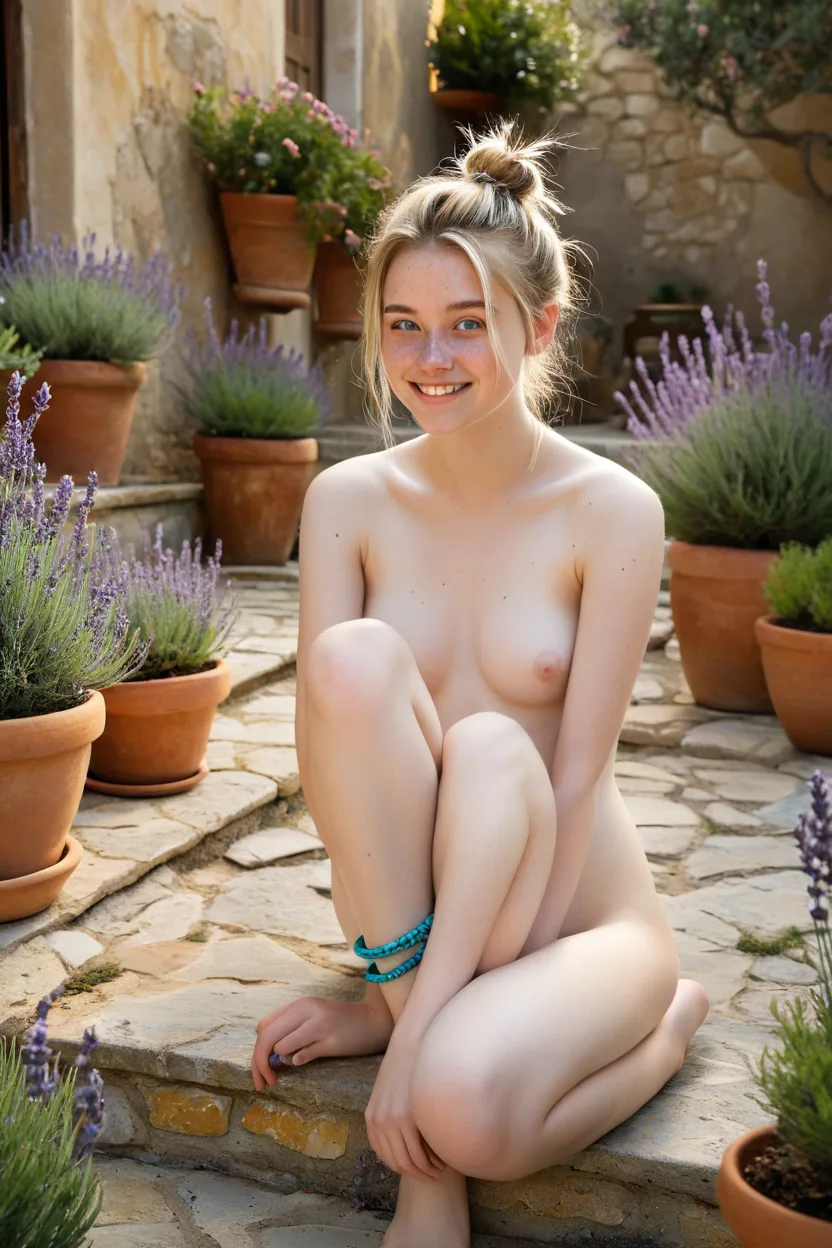
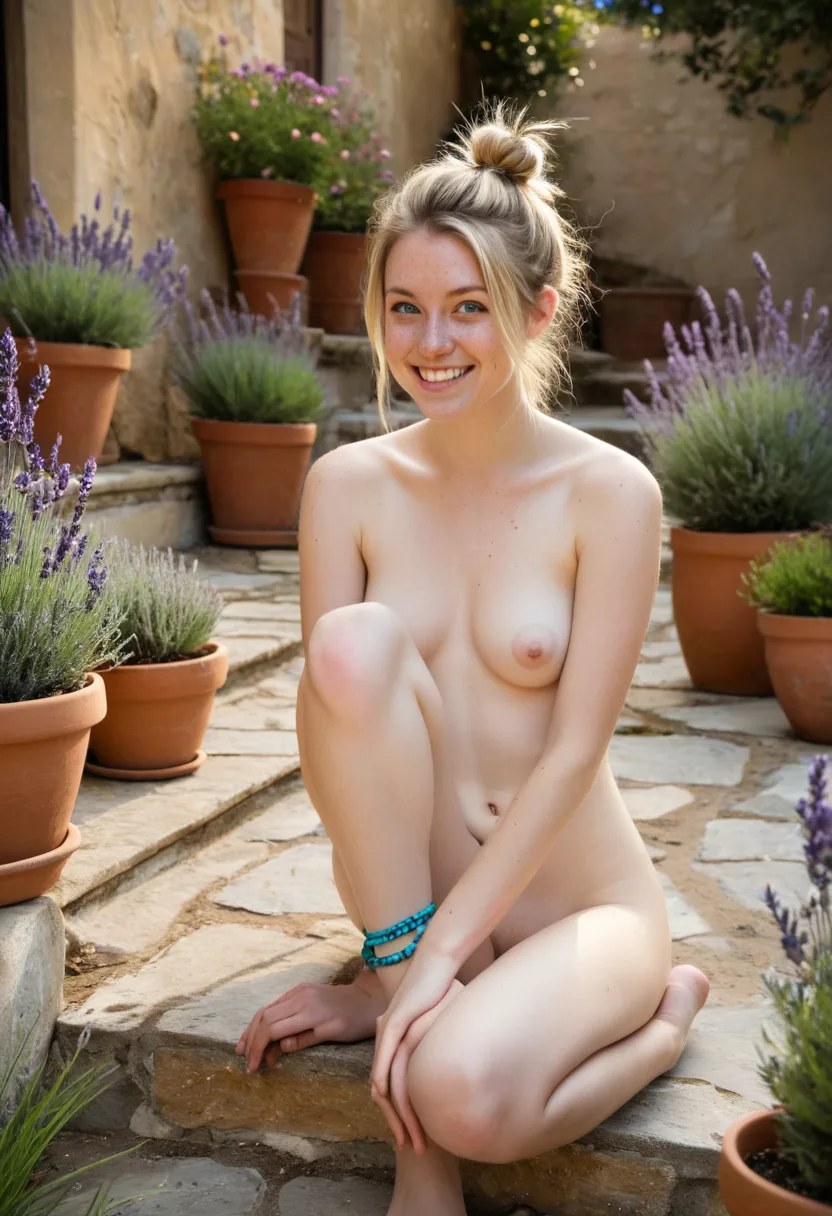
After Dark: wild round, gallery to 66, plus a repaired photo
Adds the Nov 3 wild session: the very pregnant blonde set (courtyard, lavender, sunset terrace), Kayla howling at the moon, the girls in the pool at dusk, and Muse with tentacles in her hair. The lavender steps photo is replaced with a repaired render (extra appendage removed). The antler portrait came out clothed, so it joins the public archive as a Forest scene instead of After Dark.

diff --git a/3dvr-girl/index.html b/3dvr-girl/index.html
@@ -504,6 +504,42 @@
           </a>
           <figcaption><span>3DVR Girl</span><strong>Sunset, looking back</strong></figcaption>
         </figure>
+        <figure class="private-card" data-tags="girl">
+          <a href="assets/after-dark/preg-courtyard.webp">
+            <img src="assets/after-dark/preg-courtyard.webp" alt="3DVR Girl nude and very pregnant with very large swollen breasts, cradling her huge belly in a bougainvillea courtyard" loading="lazy">
+          </a>
+          <figcaption><span>3DVR Girl</span><strong>Very pregnant, courtyard</strong></figcaption>
+        </figure>
+        <figure class="private-card" data-tags="girl">
+          <a href="assets/after-dark/preg-lavender.webp">
+            <img src="assets/after-dark/preg-lavender.webp" alt="3DVR Girl nude and very pregnant, kneeling among lavender with her hands on her huge belly" loading="lazy">
+          </a>
+          <figcaption><span>3DVR Girl</span><strong>Very pregnant, lavender</strong></figcaption>
+        </figure>
+        <figure class="private-card" data-tags="girl">
+          <a href="assets/after-dark/preg-terrace.webp">
+            <img src="assets/after-dark/preg-terrace.webp" alt="3DVR Girl very pregnant in profile on a cliff terrace at sunset, wearing a turquoise wrap, hand on her huge belly" loading="lazy">
+          </a>
+          <figcaption><span>3DVR Girl</span><strong>Very pregnant, sunset</strong></figcaption>
+        </figure>
+        <figure class="private-card" data-tags="kayla fantasy">
+          <a href="assets/after-dark/kayla-moon.webp">
+            <img src="assets/after-dark/kayla-moon.webp" alt="Kayla nude on a rocky overlook at night, head thrown back howling at a huge full moon" loading="lazy">
+          </a>
+          <figcaption><span>Kayla</span><strong>Howling at the moon</strong></figcaption>
+        </figure>
+        <figure class="private-card" data-tags="duo">
+          <a href="assets/after-dark/duo-pool.webp">
+            <img src="assets/after-dark/duo-pool.webp" alt="3DVR Girl and Kayla topless in a turquoise pool at dusk under string lights, laughing together" loading="lazy">
+          </a>
+          <figcaption><span>3DVR Girl &amp; Kayla</span><strong>Pool at dusk</strong></figcaption>
+        </figure>
+        <figure class="private-card" data-tags="muse fantasy">
+          <a href="assets/after-dark/muse-tentacles.webp">
+            <img src="assets/after-dark/muse-tentacles.webp" alt="Muse in a violet lit pool, purple tentacles woven through her two messy buns" loading="lazy">
+          </a>
+          <figcaption><span>Muse</span><strong>Tentacles in her hair</strong></figcaption>
+        </figure>
       </div>
     </section>
   </main>

diff --git a/3dvr-girl/app.js b/3dvr-girl/app.js
@@ -214,6 +214,15 @@ const scenes = [
     image: 'assets/intimacy-machine-vest.webp',
     alt: 'Concept render of a black padded torso-form intimacy device with purple and blue accents',
     copy: 'A hardware concept from the workshop: a portable padded torso form with modular attachments, in black with blue and purple accents.'
+  },
+  {
+    id: 'forest-spirit',
+    title: 'Forest spirit',
+    mode: 'Forest',
+    collection: 'forest',
+    image: 'assets/forest-spirit.webp',
+    alt: '3DVR Girl in a blue linen top wearing a crown of small antlers and blue flowers in a sunlit forest',
+    copy: 'A wilder portrait: antlers, forget-me-nots, and forest light. The spirit of the woods chapter.'
   }
 ];
 
